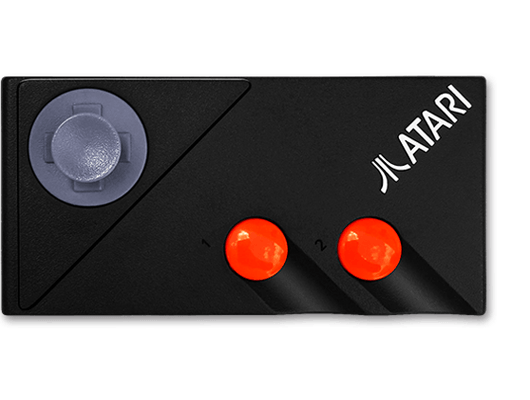
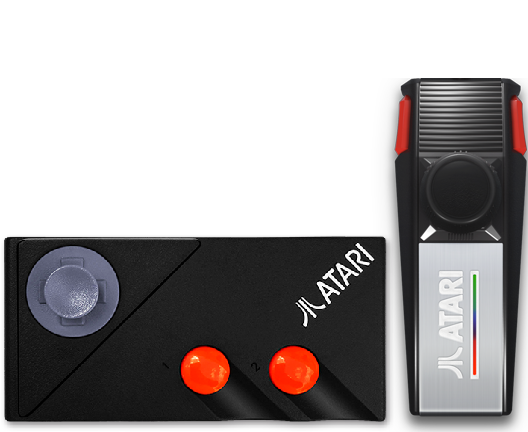
Add controllers, Update Systemlist

diff --git a/README.md b/README.md
@@ -22,7 +22,8 @@ Main Changes:
 Amstrad CPC \
 Amiga * \
 Amiga CD32 * \
-Apple ][ \
+Amiga CDTV * \
+Apple 2 \
 Atari 800 \
 Atari 2600 \
 Atari 5200 \
@@ -30,15 +31,19 @@ Atari 7800 \
 Atari Jaguar \
 Atari Lynx \
 Atari ST \
+BBC Micro * \
 Capcom System I * \
 Capcom System II * \
 Capcom System III * \
+Cave * \
 Coco \
 Commodore 16 * \
 Commodore 64 \
 Commodore Vic-20 * \
 ColecoVision \ 
 Daphne \
+EasyRPG * \
+Fairchild Channel F * \
 Famicom & Super Famicom \ 
 Family Disk System * \
 Final Burn Alpha * \
@@ -46,6 +51,7 @@ Final Burn Neo * \
 Game & Watch \
 Intellivision \
 MAME (2003,2010,2015) \ 
+Microsoft Xbox * \
 Moonlight * \
 MS-DOS & DOS \
 MSX & MSX 2 \
@@ -53,6 +59,7 @@ NEC PC-88 * \
 NEC PC-98 * \
 NEC PC-Engine \
 NEC PC-Engine CD * \
+NEC PC-FX * \
 NEC SuperGrafx \
 NEC TurboGrafx * \
 NEC TurboGrafx CD * \
@@ -70,10 +77,14 @@ Nintendo Gameboy Advance\
 Nintendo Gameboy Color \
 Nintendo GameCube \
 Nintendo Pokemon Mini * \
+Nintendo Satellaview * \
 Nintendo SNES \
 Nintendo SNES MSU-1 * \
 Nintendo VirtualBoy \
 Nintendo Wii & WiiU \
+Odyssey2 * \
+OpenBOR * \
+Pico-8 * \
 R-Zone * \
 ResidualVM * \
 RPGS * \
@@ -87,72 +98,61 @@ Sega Mega 32x & CD \
 Sega Megadrive \
 Sega Naomi * \
 Sega Saturn \
+Sega SC-3000 * \
 Sega SG-1000 \
 Sinclair ZX 81 * \
 Sinclair ZX Spectrum \
+Solarus * \
 Sony Playstation \
 Sony Playstation 2 \
 Sony PSP \
 Sony PSP Minis * \
+TI-99 * \
+Tic-80 * \
 Thomson MO/TO7 * \
 Valve Steam \
 Vectrex \
+VideoPac * \
+Watara Supervision * \
 Wonderswan \
 Wonderswan Color \
-x-68000 
+Uzebox * \
+X1 * \
+X-68000 
 
 ## Partially Supported Systems
 ###### Posters, Controllers or Descriptions may be missing (What is missing is indicated by P C D):
 
-Acorn BBC (C) \
-Advision (P C) \
-American Laser Games -  (P C) \
-Amiga CDTV (C) \
-Arcadia (P C) \
-Astrocade (P C) \
+Advision (P) \
+American Laser Games (P C) \
+Arcadia (P) \
+Astrocade (P) \
 Atari XEGS (C) \
 Atomiswave (C) \
-Cave (C) \
 ChaiLove (P C) \
 Commodore 128 (C) \
-Commodore Plus4 (P C) \
-Commodore PET (P C) \
-CreatiVision (P C) \
+Commodore Plus4 (P) \
+Commodore PET (P) \
+CreatiVision (P) \
 DonPachi (C) \
 Doom (C) \
 DosBox (P C) \
-EasyRPG (C) \
 ECWolf (P C)
-Fairchild Channel F (C) \
-Game.Com (P C) \
+Game.Com (P) \
 J2Me (P C) \
 Konami LCD (P C) \
 LCD Games (P C) \
 LowResNX (C) \
-Lutro (P C) \
-MegaDuck (P C) \
-Microsoft Xbox (C) \
+Lutro (P) \
+MegaDuck (P) \
 MicroVision (P C) \
-Moto (C) \
+MSX-F8 (D P) \
 Neo Geo AES (C) \
-Nintendo 3DS (P C) \
-Nintendo Satellaview (C) \
-Odyssey2 (P C) \
-OpenBOR (C) \
-Palm (P C) \
-PC-FX (C) \
-Pico-8 (C) \
-Sega SC-3000 (C) \
+Nintendo 3DS (P) \
+Palm (P) \
 Sega VMU (C) \
-Solarus (C) \
-TI-99 (C) \
-Tic-80 (C) \
 Tiger LCD (P C) \
-Uzebox (C) \
-VideoPac (C) \
-Watara Supervision (C) \
-Wolf (C) \
-X1 (C) 
+Wolf (C)
 
 
 ## Collections
